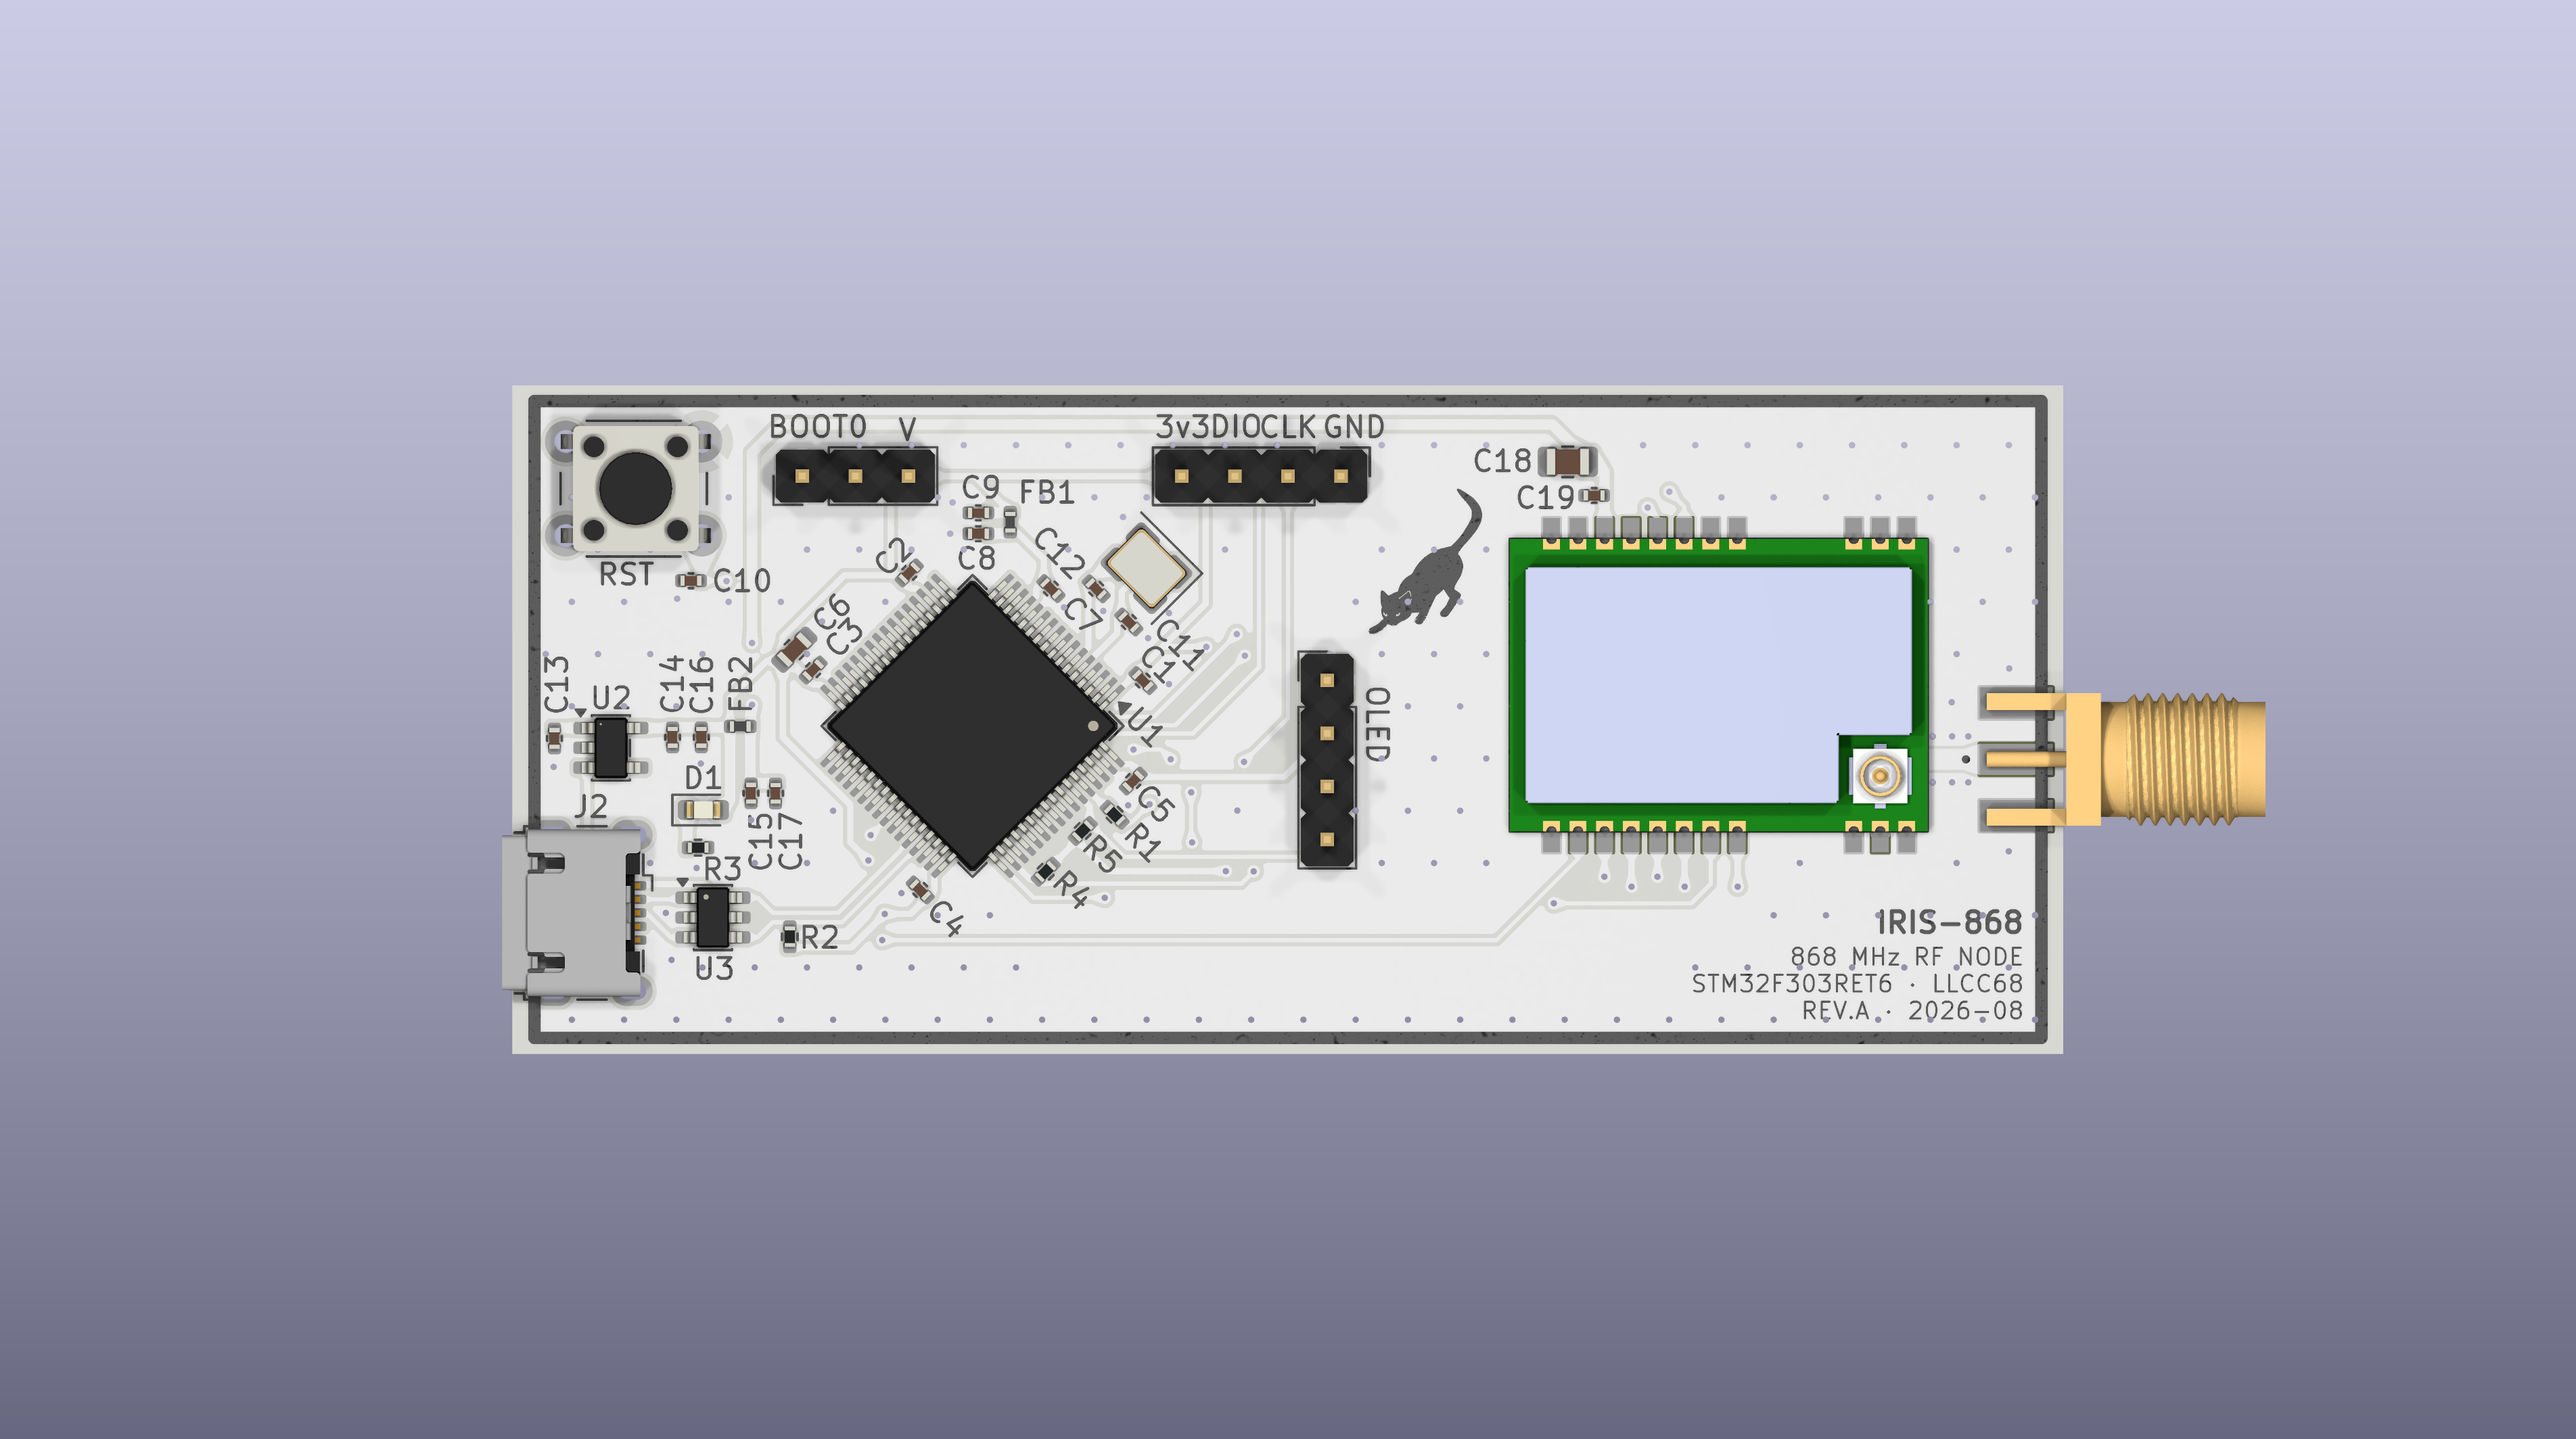
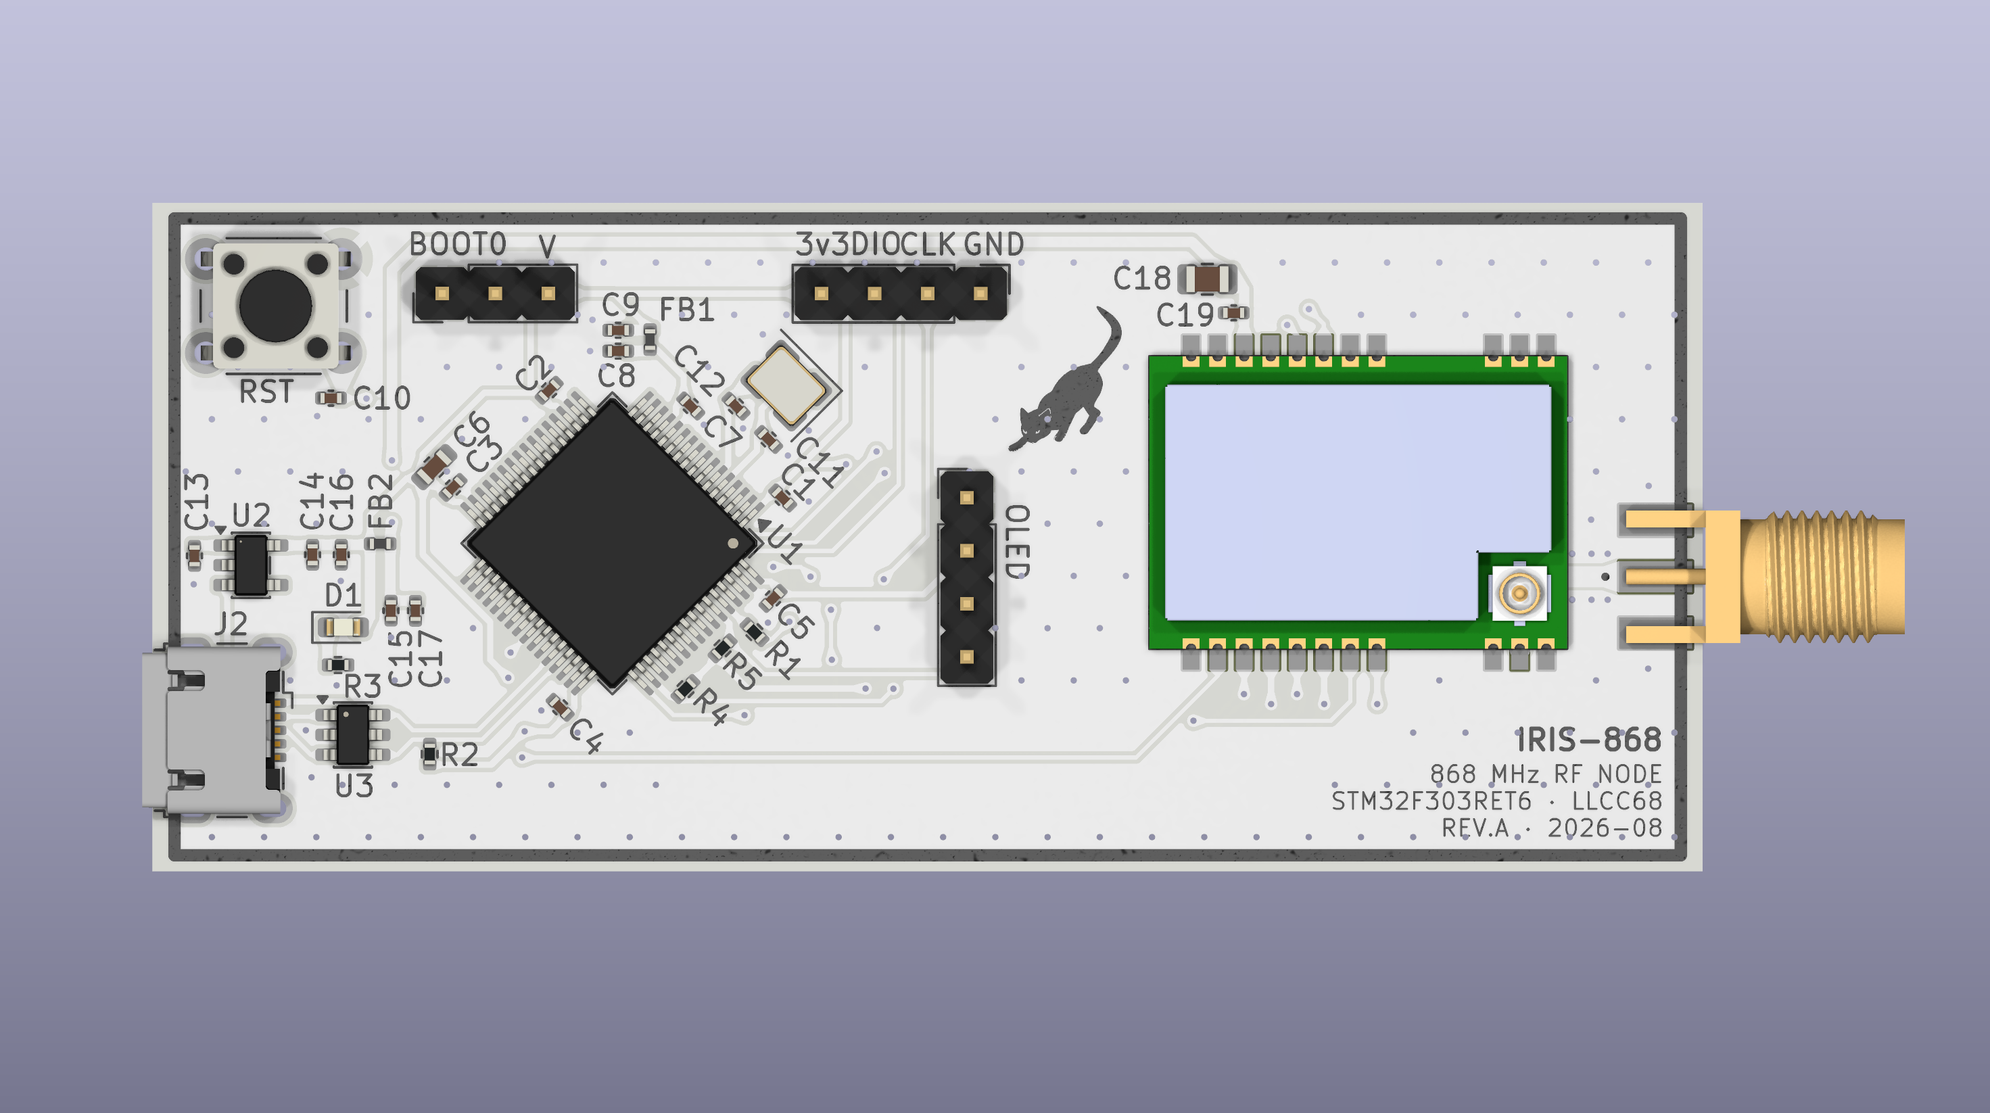
Added README.md

diff --git a/README.md b/README.md
@@ -1,2 +1,294 @@
-# IRIS-868
+<div align="center">
+
+# 📡 IRIS-868
+
+**Custom embedded RF platform for the 868 MHz ISM band**
+
 IRIS-868 is a custom embedded RF platform based on the STM32F303RET6 microcontroller and Semtech LLCC68 sub-GHz transceiver, designed for 868 MHz ISM-band wireless communication.
+
+<br/>
+
+![Status](https://img.shields.io/badge/status-revision%20A-orange?style=for-the-badge)
+![KiCad](https://img.shields.io/badge/KiCad-9.0-314CB0?style=for-the-badge&logo=kicad&logoColor=white)
+![MCU](https://img.shields.io/badge/STM32F303RET6-03234B?style=for-the-badge&logo=stmicroelectronics&logoColor=white)
+![Band](https://img.shields.io/badge/868%20MHz-%2B22%20dBm-2ea44f?style=for-the-badge)
+
+![PCB](https://img.shields.io/badge/PCB-2%20layer%20%C2%B7%2074.2%20%C3%97%2032%20mm-lightgrey)
+![Radio](https://img.shields.io/badge/radio-LLCC68%20%C2%B7%20LoRa%20%2F%20GFSK-blueviolet)
+![Interface](https://img.shields.io/badge/USB-2.0%20Full%20Speed-informational)
+![Last commit](https://img.shields.io/github/last-commit/StringLess80/IRIS-868)
+![Repo size](https://img.shields.io/github/repo-size/StringLess80/IRIS-868)
+![Stars](https://img.shields.io/github/stars/StringLess80/IRIS-868?style=social)
+
+<br/>
+
+![IRIS-868](docs/images/IRIS-868.png)
+
+</div>
+
+---
+
+## ⚡ At a glance
+
+|  |  |
+|---|---|
+| 🧠 **MCU** | STM32F303RET6 · Cortex-M4F @ 72 MHz · 512 KB flash · 64 + 16 KB RAM |
+| 📻 **Radio** | Ebyte E220-900M22S · LLCC68 · +22 dBm · LoRa / (G)FSK |
+| 🔌 **Power** | USB micro-B → AP2112K-3.3 LDO, filtered analog and RF rails |
+| 🧩 **Expansion** | I²C header for 128×64 OLED · SWD · BOOT0 jumper |
+| 📐 **Board** | 2-layer FR4 · 74.2 × 32.0 mm · white mask, black silk |
+| 🛠 **Tooling** | KiCad 9, project-local libraries, no global config needed |
+
+> [!WARNING]
+> **Revision A is design-complete but has not been bring-up tested.** Fabrication files are released as-is. No firmware is included in this repository yet. See [Known limitations](#-known-limitations) before ordering.
+
+## 📑 Table of contents
+
+- [Gallery](#-gallery)
+- [System architecture](#-system-architecture)
+- [Repository layout](#-repository-layout)
+- [Hardware overview](#-hardware-overview)
+- [Pin assignment](#-pin-assignment)
+- [Board specification](#-board-specification)
+- [Bill of materials](#-bill-of-materials)
+- [Getting started](#-getting-started)
+- [Firmware notes](#-firmware-notes)
+- [Known limitations](#-known-limitations)
+- [Regulatory](#-regulatory)
+- [License](#-license)
+
+## 🖼 Gallery
+
+<div align="center">
+
+| Front | Back |
+|:---:|:---:|
+| <img src="docs/images/IRIS-868-F.png" width="420"/> | <img src="docs/images/IRIS-868-B.png" width="420"/> |
+
+</div>
+
+📄 Full schematic: [`docs/schematics/IRIS-868.pdf`](docs/schematics/IRIS-868.pdf)
+
+## 🏗 System architecture
+
+```mermaid
+flowchart LR
+    USB["USB micro-B<br/>J2"] -->|VBUS 5 V| LDO["AP2112K-3.3<br/>600 mA LDO"]
+    USB -.->|"D+ / D-"| ESD["USBLC6-2SC6<br/>ESD"]
+    ESD -.-> MCU
+
+    LDO --> RAIL(("3.3 V"))
+    RAIL -->|"FB1 120 Ω"| VDDA["+3.3VA"]
+    RAIL -->|"FB2 120 Ω"| VRF["VRF"]
+    RAIL --> MCU
+    VDDA --> MCU
+    VRF --> MOD
+
+    MCU["STM32F303RET6<br/>Cortex-M4F @ 72 MHz"]
+    MCU <-->|"SPI1 · NSS · BUSY · DIO1 · NRST"| MOD["E220-900M22S<br/>LLCC68 · +22 dBm"]
+    MCU -->|"RXEN / TXEN"| MOD
+    MOD -->|ANT| SMA["SMA edge<br/>J6"]
+
+    MCU <-->|"I²C1"| OLED["128×64 OLED<br/>J4"]
+    MCU <-->|SWD| DBG["ST-Link<br/>J3"]
+    MCU -.->|BOOT0| JMP["Boot jumper<br/>J1"]
+
+    style MCU fill:#03234B,color:#fff
+    style MOD fill:#2ea44f,color:#fff
+    style RAIL fill:#f39c12,color:#fff
+```
+
+## 📁 Repository layout
+
+```
+IRIS-868/
+├── hardware/
+│   ├── kicad/                 KiCad 9 project (schematic, PCB, design rules)
+│   │   └── libs/              Project-local symbols, footprints, 3D models
+│   └── gerbers/rev.A/         Gerber X2 + Excellon drill files
+└── docs/
+    ├── schematics/            Schematic PDF
+    ├── images/                Board renders
+    └── datasheets/            Component reference documents
+```
+
+## 🔧 Hardware overview
+
+### Power
+
+USB VBUS feeds an **AP2112K-3.3** LDO (SOT-23-5, 600 mA) that generates the single 3.3 V system rail. Three domains branch from it:
+
+| Rail | Source | Decoupling | Purpose |
+|---|---|---|---|
+| `+3.3V` | LDO output | 10 µF + 6 × 100 nF + 2 × 1 µF | MCU digital, I/O, headers |
+| `+3.3VA` | via FB1 (120 Ω ferrite) | 1 µF + 10 nF | STM32 VDDA / analog reference |
+| `VRF` | via FB2 (120 Ω ferrite) | 22 µF + 1 µF + 2 × 100 nF | RF module supply |
+
+The ferrite beads isolate the analog and RF domains from digital switching noise on the main rail. The 22 µF bulk capacitor on `VRF` supplies the current burst drawn by the module during transmission.
+
+### RF chain
+
+The E220-900M22S connects to the MCU over SPI1 plus four control lines. `RXEN` and `TXEN` drive the module's internal RF switch and must be managed by firmware around every transmit/receive transition. The antenna net (`ANT`) runs from the module's stamp-hole RF pad to the SMA edge connector as a ground-referenced coplanar trace; a project-specific design rule enforces a 0.15 mm gap to the surrounding copper pour along this net.
+
+### Interfaces
+
+| Connector | Type | Pinout |
+|---|---|---|
+| **J2** USB | micro-B | USB FS device on PA11/PA12, 1.5 kΩ pull-up on D+, ESD-protected |
+| **J3** SWD | 1×4 @ 2.54 mm | `GND` · `SWCLK` · `SWDIO` · `+3.3V` |
+| **J1** PRG | 1×3 @ 2.54 mm | `GND` · `BOOT0` · `+3.3V` — jumper 1–2 = flash, 2–3 = bootloader |
+| **J4** OLED | 1×4 @ 2.54 mm | `GND` · `+3.3V` · `SCL` · `SDA` (1.5 kΩ pull-ups on board) |
+| **J6** SMA | edge-mount | Antenna |
+
+## 📌 Pin assignment
+
+### STM32F303RET6 ↔ E220-900M22S
+
+| STM32 pin | Signal | Module pin | Direction | Function |
+|---|---|---|:---:|---|
+| `PA5` | SPI1_SCK | 18 (SCK) | → | SPI clock |
+| `PA6` | SPI1_MISO | 16 (MISO) | ← | SPI data out |
+| `PA7` | SPI1_MOSI | 17 (MOSI) | → | SPI data in |
+| `PA4` | NSS | 19 (NSS) | → | Chip select, active low |
+| `PA3` | NRST | 15 (NRST) | → | Module reset, active low |
+| `PA2` | BUSY | 14 (BUSY) | ← | Transceiver busy status |
+| `PA8` | DIO1 | 13 (DIO1) | ← | Primary interrupt line |
+| `PB10` | RXEN | 6 (RXEN) | → | RF switch, receive enable |
+| `PB11` | TXEN | 7 (TXEN) | → | RF switch, transmit enable |
+
+Module pin 8 (DIO2) is left unconnected in revision A.
+
+<details>
+<summary><b>Other pin assignments</b></summary>
+
+<br/>
+
+| STM32 pin | Function |
+|---|---|
+| `PA11` / `PA12` | USB D− / D+ |
+| `PA13` / `PA14` | SWDIO / SWCLK |
+| `PA15` | I²C1 SCL (AF4) |
+| `PB7` | I²C1 SDA (AF4) |
+| `PF0` / `PF1` | 16 MHz crystal (OSC_IN / OSC_OUT) |
+| `NRST` (pin 7) | Reset button + 100 nF |
+| `BOOT0` (pin 60) | J1 jumper via 10 kΩ |
+
+All remaining GPIOs — `PA0`, `PA1`, `PA9`, `PA10`, `PB0`–`PB6`, `PB8`, `PB9`, `PB12`–`PB15`, `PC0`–`PC15`, `PD2` — are named in the schematic but are **not routed to any connector** in revision A. They are reserved for future expansion.
+
+</details>
+
+## 📐 Board specification
+
+| Parameter | Value |
+|---|---|
+| Dimensions | 74.2 × 32.0 mm |
+| Layers | 2 (F.Cu / B.Cu) |
+| Stackup | 1.6 mm FR4, 35 µm copper, εr 4.5 |
+| Vias | 247 |
+| Special rules | 0.15 mm clearance on the `ANT` coplanar feedline |
+
+## 🧾 Bill of materials
+
+<details>
+<summary><b>Full BOM — 39 components</b></summary>
+
+<br/>
+
+| Ref | Qty | Value | Package | Notes |
+|---|:---:|---|---|---|
+| U1 | 1 | STM32F303RET6 | LQFP-64 | 0.5 mm pitch |
+| U2 | 1 | AP2112K-3.3 | SOT-23-5 | 600 mA LDO |
+| U3 | 1 | USBLC6-2SC6 | SOT-23-6 | USB ESD protection |
+| IC1 | 1 | E220-900M22S | Ebyte SMD module | LLCC68, +22 dBm |
+| Y1 | 1 | 16 MHz | 3225-4pin | ≤20 ppm recommended |
+| C1–C5, C10, C16, C17, C19 | 9 | 100 nF | 0402 | 16 V X7R |
+| C8, C9, C14, C15 | 4 | 1 µF | 0402 | 16 V X5R/X7R |
+| C13 | 1 | 1 µF | 0402 | **25 V** — sits on the 5 V VBUS rail |
+| C6 | 1 | 10 µF | 0603 | 16 V X5R |
+| C18 | 1 | 22 µF | 0805 | 16 V X5R, RF bulk |
+| C7 | 1 | 10 nF | 0402 | 16 V X7R, VDDA filter |
+| C11, C12 | 2 | 12 pF | 0402 | **50 V C0G/NP0 ±5%**, crystal load |
+| R1 | 1 | 10 kΩ | 0402 | BOOT0 series |
+| R2 | 1 | 1.5 kΩ | 0402 | USB D+ pull-up |
+| R3 | 1 | 1.5 kΩ | 0402 | Power LED series |
+| R4, R5 | 2 | 1.5 kΩ | 0402 | I²C pull-ups |
+| FB1, FB2 | 2 | 120 Ω @ 100 MHz | 0402 | Analog / RF rail filtering |
+| D1 | 1 | Red LED | 0603 | Power indicator |
+| RST | 1 | Tactile switch | 6 mm THT | 4-pin, 4.5 × 6.5 mm |
+| J1 | 1 | Pin header 1×3 | 2.54 mm | BOOT0 select |
+| J2 | 1 | USB micro-B | Würth 629105150521 | |
+| J3 | 1 | Pin header 1×4 | 2.54 mm | SWD |
+| J4 | 1 | Pin header 1×4 | 2.54 mm | I²C / OLED |
+| J6 | 1 | SMA edge-mount | RF Solutions CON-SMA-EDGE-S | |
+
+</details>
+
+> [!TIP]
+> Capacitor voltage ratings account for MLCC **DC bias derating** — class II ceramics lose a large fraction of their nominal capacitance near their rated voltage, so ratings are specified at roughly 4–5× the working voltage. Don't forget to order **2.54 mm jumper shunts** for J1; they aren't part of the PCB BOM.
+
+## 🚀 Getting started
+
+<details open>
+<summary><b>1 · Fabricate the board</b></summary>
+
+<br/>
+
+Fabrication files for revision A are in [`hardware/gerbers/rev.A/`](hardware/gerbers/rev.A/), in Gerber X2 format with Excellon drill files. They can be uploaded directly to most fabricators.
+
+- Process: standard 2-layer, 1.6 mm FR4, HASL or ENIG
+- No controlled impedance is specified
+- Suggested hand-assembly order: STM32 first (drag solder, then inspect with flux and a loupe), then the remaining ICs, then passives, then the module, then through-hole parts last
+
+</details>
+
+<details>
+<summary><b>2 · Open the design</b></summary>
+
+<br/>
+
+The project requires **KiCad 9** or later. Symbols, footprints and 3D models for the non-standard parts (E220 module, SMA edge connector) live under `hardware/kicad/libs/` and are referenced with project-relative paths, so the project opens without any global library configuration.
+
+```bash
+git clone https://github.com/StringLess80/IRIS-868.git
+cd IRIS-868
+kicad hardware/kicad/IRIS-868.kicad_pro
+```
+
+</details>
+
+<details>
+<summary><b>3 · Program it</b></summary>
+
+<br/>
+
+**Via SWD** — connect an ST-Link or any CMSIS-DAP probe to J3.
+
+> [!IMPORTANT]
+> NRST is **not** present on the debug header, so "connect under reset" is not available. If firmware reconfigures PA13/PA14 or enters a low-power mode early in startup, recovery requires the bootloader route below.
+
+**Via USB DFU** — move the J1 jumper to pins 2–3, reset the board, then flash over USB:
+
+```bash
+dfu-util -a 0 -s 0x08000000:leave -D firmware.bin
+```
+
+Move the jumper back to pins 1–2 and reset to run from flash.
+
+</details>
+
+## 🐛 Known limitations
+
+Revision A has the following documented issues and constraints:
+
+| # | Issue | Impact | Workaround |
+|:---:|---|---|---|
+| 1 | **BOOT0 needs a jumper** — R1 is wired in series between BOOT0 and J1, not as a fixed pull-down, so BOOT0 floats with no shunt fitted | Boot mode is undefined after reset | Always keep a jumper on J1, pins 1–2 for normal operation |
+| 2 | **No NRST on the SWD header** | No "connect under reset" recovery | Use the USB DFU bootloader |
+| 3 | **Unrouted GPIOs** | Most MCU pins are inaccessible | Rework, or wait for revision B |
+
+<div align="center">
+<br/>
+
+Made with [KiCad](https://www.kicad.org/) 🛠
+
+</div>
